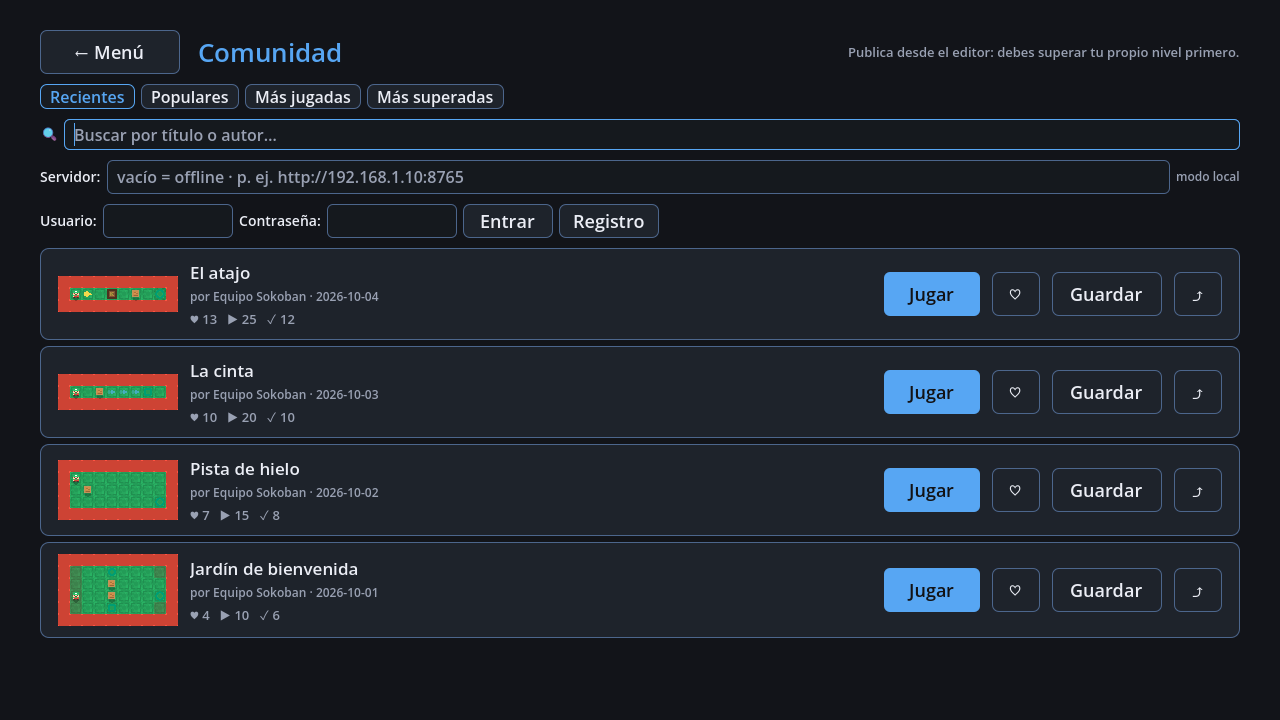
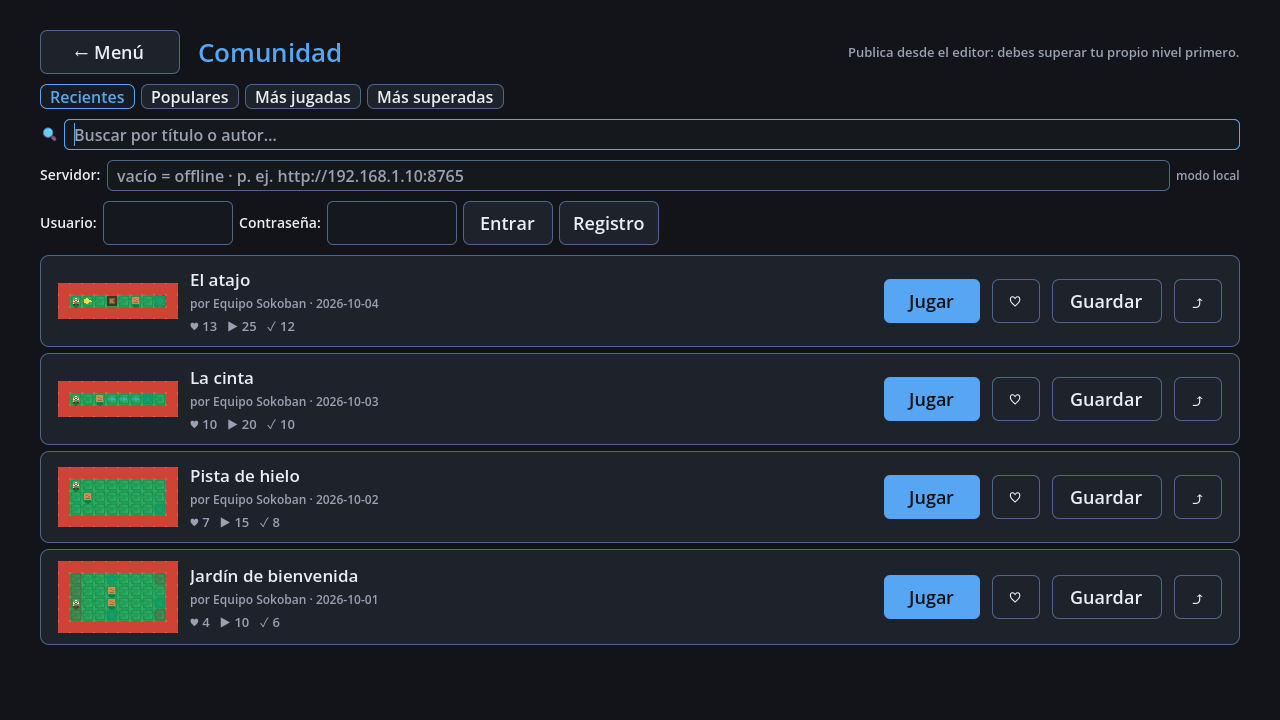
Alturas de control consistentes en comunidad
Los campos Servidor/Usuario/Contraseña y los botones Entrar/Registro
eran los únicos controles del juego a 34px (el resto usa la altura
por defecto del tema ~40px, y los botones del feed van a 44px).
Se quita el override de alto: solo se fija el ancho, como hace el
buscador de la misma pantalla.

Generated with [Devin](https://devin.ai)

diff --git a/AGENTS.md b/AGENTS.md
@@ -1,0 +1,57 @@
+# AGENTS.md — Sokoban Mutante
+
+## Contexto
+
+Sokoban con mecánicas mutantes en Godot 4. El juego vive en la raíz del
+repo (`project.godot`); el servidor de comunidad en `server/` (Python).
+
+## Comandos
+
+```bash
+godot --path .                                            # jugar (o F5 en el editor)
+godot --headless --path . -s res://tests/test_runner.gd   # checks motor + campaña
+godot --headless --path . -s res://tests/test_ui.gd       # UI + comunidad E2E
+godot --headless --path . -s res://tests/test_e2e.gd      # E2E
+
+python server/test_routes.py                              # backend sin socket
+python server/test_load.py                                # concurrencia
+
+# Capturas de UI
+godot --path . -s res://tools/screenshots.gd -- [nombre ...]  # subset opcional
+godot --path . -s res://tools/gif_demo.gd                     # GIF de demo
+```
+
+## Estructura
+
+```
+project.godot  # proyecto Godot (raíz)
+scenes/        # escenas .tscn
+scripts/       # GDScript (scripts/ui/ = pantallas, scripts/game/ = motor)
+assets/        # recursos
+levels/        # niveles de campaña
+server/        # servidor de comunidad (Python) + tests
+tools/         # screenshots.gd, gif_demo.gd, export, _shots/ (salida)
+tests/         # runners GDScript
+docs/          # documentación + assets (capturas públicas)
+export/        # builds exportadas (gitignored)
+```
+
+## Reglas del proyecto
+
+- **Tema**: todo el chrome de UI usa `scripts/ui/ui_theme.gd` (`UiTheme`) —
+  variantes dark/light/contrast/color-blind. Los colores del tablero son
+  arte de juego y sí pueden ser literales (paleta por tema en
+  `BoardView.theme_palette()`).
+- **Widgets**: usar `scripts/ui/widgets.gd` (`Widgets.*`) en vez de
+  botones/etiquetas ad hoc; `Widgets.set_danger()` para el estado armado
+  del patrón doble-clic destructivo.
+- **Confirmaciones destructivas**: patrón "pulsa de nuevo para confirmar"
+  (texto + `set_danger` 2 s) — igual en editor, comunidad y opciones.
+- Los PNGs de `tools/_shots/` son salida de trabajo; los de `docs/assets/`
+  son los publicados en README.
+
+## Verificación
+
+- Los avisos WASAPI/audio en headless son del entorno, no fallos de UI.
+- Tras tocar pantallas: regenerar el subset afectado de `tools/_shots/`
+  y comprobar que no salen en blanco (PNG ~4 KB = captura temprana).
